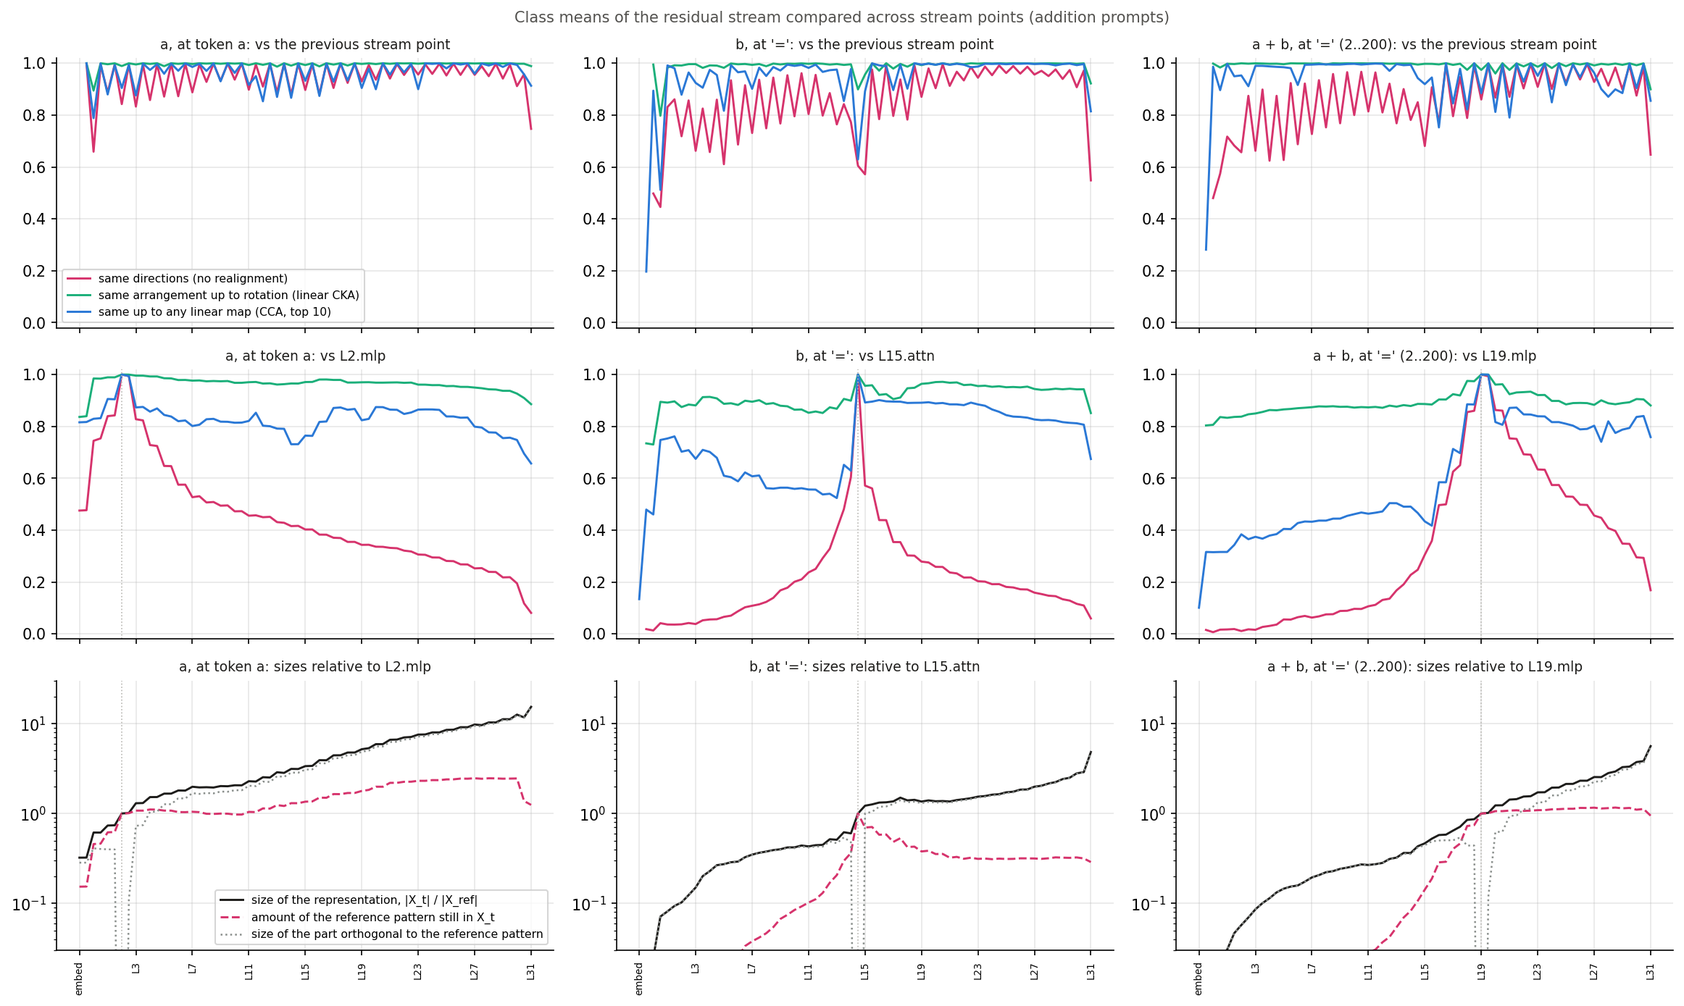
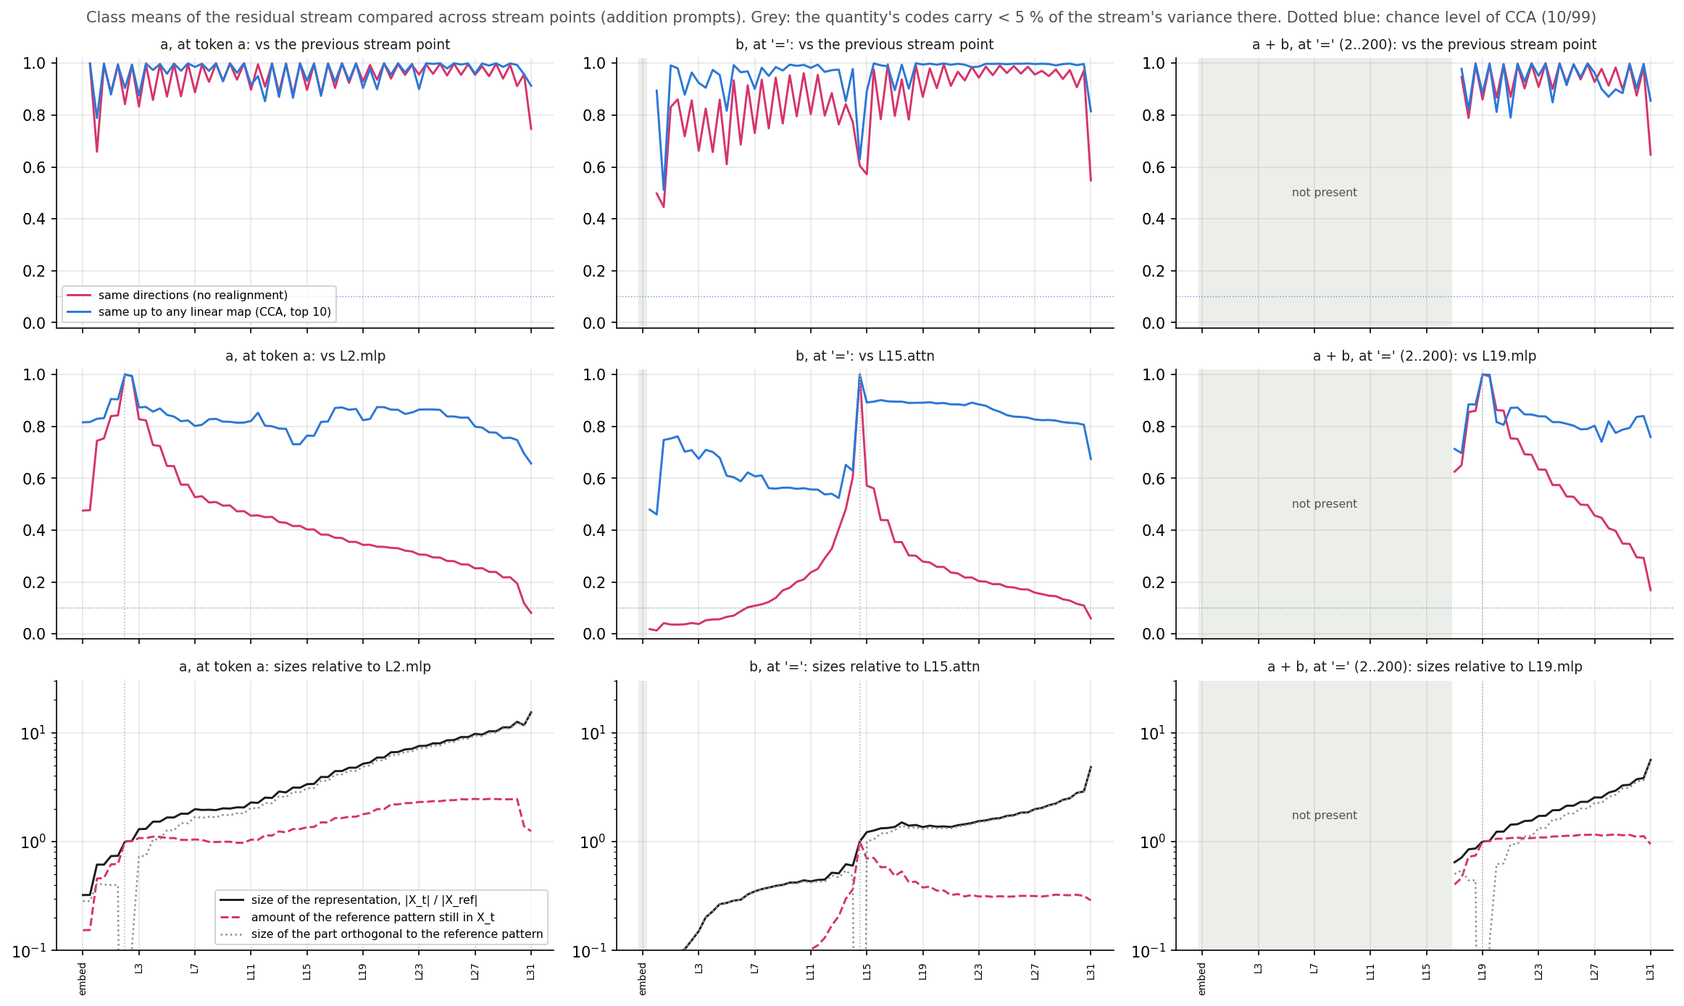
Vector report section 6: CCA instead of CKA, comparisons only where each representation is present

diff --git a/param_decomp/arith_repr/vectors/drift.py b/param_decomp/arith_repr/vectors/drift.py
@@ -10,14 +10,16 @@ comparisons between two points t, t':
 
 * direct similarity  <X_t, X_t'>_F / (|X_t| |X_t'|): the class means are compared in the stream's own
   coordinates, with no realignment. 1 = same directions and same arrangement; 0 = orthogonal.
-* linear CKA         |X_t^T X_t'|_F^2 / (|X_t^T X_t|_F |X_t'^T X_t'|_F): compares the arrangement
-  (the n x n matrix of dot products between class means). Unchanged by any rotation of the stream
-  and by a common rescaling, not by other linear maps.
+* linear CKA         |X_t^T X_t'|_F^2 / (|X_t^T X_t|_F |X_t'^T X_t'|_F): stored but not plotted; it is
+  dominated by the largest directions (e.g. the magnitude lin(a) + lin(b)) and scores high even
+  where the codes differ.
 * CCA similarity     mean squared canonical correlation between the top-K principal coordinates of
-  X_t and X_t' (K = 10): unchanged by any invertible linear map of those coordinates.
+  X_t and X_t' (K = 10): unchanged by any invertible linear map of those coordinates; chance level
+  about K / (n - 1).
 
-When direct similarity falls while CKA stays near 1, the representation has moved to other
-directions of the stream (it was rotated) but its arrangement is the same."""
+When direct similarity falls while CCA stays high, the representation has moved to other directions
+of the stream but its arrangement, up to a linear map, is the same. Figures show only the points
+where the quantity is present (`presence`)."""
 
 import sys
 from typing import Any
@@ -135,12 +137,55 @@ def save(fig: Any, name: str) -> None:
     print("saved", name)
 
 
+PRESENT = 0.05  # a representation is present where its codes carry >= 5 % of the stream's variance
+LINE_IX = {"a": 0, "b": 1, "sum": 2}
+
+
+def presence(k: str) -> np.ndarray:
+    """(65,) bool: the quantity's codes (all harmonics of its line, plus its linear part for a / b)
+    carry at least PRESENT of the stream's variance at that point and position (storage.npz)."""
+    st = np.load(OUT / "storage.npz")
+    pos, q = REPS[k]
+    li = LINE_IX[q]
+    e = st["energy"][:, pos - 1, 0, li].sum(-1)
+    if li < 2:
+        e = e + st["lin"][:, pos - 1, 0, li]
+    return np.nan_to_num(e) >= PRESENT
+
+
+def masked(sim: np.ndarray, p: np.ndarray) -> np.ndarray:
+    out = sim.copy()
+    out[~p, :] = np.nan
+    out[:, ~p] = np.nan
+    return out
+
+
+def shade_absent(ax: Any, p: np.ndarray) -> None:
+    t = 0
+    while t < len(p):
+        if not p[t]:
+            u = t
+            while u + 1 < len(p) and not p[u + 1]:
+                u += 1
+            ax.axvspan(t - 0.5, u + 0.5, color="#eceee9", zorder=0)
+            if u - t >= 6:
+                ax.text((t + u) / 2, 0.5, "not present", ha="center", va="center", fontsize=7.5,
+                        color=INK2, transform=ax.get_xaxis_transform())  # fmt: skip
+            t = u + 1
+        else:
+            t += 1
+
+
 def heatmaps(z: dict[str, np.ndarray], metric: str, title: str, name: str) -> None:
     names = point_names()
     fig, axes = plt.subplots(1, len(ROWS), figsize=(5.2 * len(ROWS), 5))
+    cmap = matplotlib.colormaps["viridis"].copy()
+    cmap.set_bad("#eceee9")
     im: Any = None
     for ax, k in zip(axes, ROWS, strict=True):
-        im = ax.imshow(z[f"{k}_{metric}"], vmin=0, vmax=1, cmap="viridis", origin="lower")
+        im = ax.imshow(
+            masked(z[f"{k}_{metric}"], presence(k)), vmin=0, vmax=1, cmap=cmap, origin="lower"
+        )
         _ticks(ax, names)
         ax.set_title(TITLES[k], fontsize=9.5, color=INK)
         ax.set_xlabel("stream point", fontsize=8)
@@ -150,22 +195,26 @@ def heatmaps(z: dict[str, np.ndarray], metric: str, title: str, name: str) -> No
 
 
 def lines(z: dict[str, np.ndarray]) -> None:
-    """Similarity to the previous point and to a fixed reference point, three measures per row."""
+    """Similarity to the previous point and to a fixed reference point, and the sizes."""
     names = point_names()
     x = np.arange(len(names))
     fig, axes = plt.subplots(3, len(ROWS), figsize=(5.2 * len(ROWS), 9.4), sharex=True)
     styles = {"direct": ("#d6336c", "same directions (no realignment)"),
-              "cka": ("#1baf7a", "same arrangement up to rotation (linear CKA)"),
               "cca": ("#2a78d6", "same up to any linear map (CCA, top 10)")}  # fmt: skip
     for c, k in enumerate(ROWS):
         ref = names.index(REF[k])
+        p = presence(k)
+        pv = np.where(p, 1.0, np.nan)
         for r, (lab, get) in enumerate((
-            ("vs the previous stream point", lambda M: np.r_[np.nan, np.diag(M, 1)]),
-            (f"vs {REF[k]}", lambda M, ref=ref: M[ref]),
+            ("vs the previous stream point",
+             lambda sim, pv=pv: np.r_[np.nan, np.diag(sim, 1)] * pv * np.r_[np.nan, pv[:-1]]),
+            (f"vs {REF[k]}", lambda sim, ref=ref, pv=pv: sim[ref] * pv),
         )):  # fmt: skip
             ax = axes[r, c]
+            shade_absent(ax, p)
             for m, (col, desc) in styles.items():
                 ax.plot(x, get(z[f"{k}_{m}"]), color=col, lw=1.4, label=desc)
+            ax.axhline(10 / 99, color="#2a78d6", lw=0.7, ls=":", alpha=0.7)
             if r == 1:
                 ax.axvline(ref, color=GRAY, lw=0.8, ls=":")
             ax.set_ylim(-0.02, 1.02)
@@ -176,22 +225,25 @@ def lines(z: dict[str, np.ndarray]) -> None:
             _ticks(ax, names, "x")
         # moved away, or diluted? The reference pattern's own amount in X_t, and the size of X_t
         ax = axes[2, c]
+        shade_absent(ax, p)
         size = np.sqrt(z[f"{k}_var"] / z[f"{k}_var"][ref])
         kept = z[f"{k}_direct"][ref] * size  # <X_ref, X_t> / |X_ref|^2
-        ax.plot(x, size, color=INK, lw=1.4, label="size of the representation, |X_t| / |X_ref|")
+        ax.plot(
+            x, size * pv, color=INK, lw=1.4, label="size of the representation, |X_t| / |X_ref|"
+        )
         ax.plot(
             x,
-            kept,
+            kept * pv,
             color="#d6336c",
             lw=1.4,
             ls="--",
             label="amount of the reference pattern still in X_t",
         )
-        ax.plot(x, np.sqrt(np.maximum(size**2 - kept**2, 0)), color="#8a8f8c", lw=1.2, ls=":",
+        ax.plot(x, np.sqrt(np.maximum(size**2 - kept**2, 0)) * pv, color="#8a8f8c", lw=1.2, ls=":",
                 label="size of the part orthogonal to the reference pattern")  # fmt: skip
         ax.axvline(ref, color=GRAY, lw=0.8, ls=":")
         ax.set_yscale("log")
-        ax.set_ylim(0.03, 30)
+        ax.set_ylim(0.1, 30)
         ax.set_title(f"{TITLES[k]}: sizes relative to {REF[k]}", fontsize=9, color=INK)
         ax.grid(alpha=0.3)
         for sp in ("top", "right"):
@@ -199,8 +251,9 @@ def lines(z: dict[str, np.ndarray]) -> None:
         _ticks(ax, names, "x")
     axes[0, 0].legend(fontsize=7.5, loc="lower left")
     axes[2, 0].legend(fontsize=7.5, loc="lower right")
-    fig.suptitle("Class means of the residual stream compared across stream points (addition prompts)",
-                 fontsize=10, color=INK2)  # fmt: skip
+    fig.suptitle("Class means of the residual stream compared across stream points (addition prompts). Grey: the "
+                 "quantity's codes carry < 5 % of the stream's variance there. Dotted blue: chance level of CCA "
+                 "(10/99)", fontsize=10, color=INK2)  # fmt: skip
     fig.tight_layout()
     save(fig, "drift_lines")
 
@@ -208,25 +261,29 @@ def lines(z: dict[str, np.ndarray]) -> None:
 def figures() -> None:
     z = dict(np.load(FILE))
     heatmaps(z, "direct", "Movement: similarity of the class means in the stream's own coordinates "
-             "(no rotation allowed), between every pair of stream points", "drift_direct")  # fmt: skip
-    heatmaps(z, "cka", "Arrangement: linear CKA of the class means between every pair of stream points "
-             "(unchanged by rotations of the stream)", "drift_cka")  # fmt: skip
+             "(no realignment allowed), between every pair of stream points where the quantity is present",
+             "drift_direct")  # fmt: skip
+    heatmaps(z, "cca", "Arrangement: CCA similarity of the class means (unchanged by any invertible linear map "
+             "of the top 10 principal coordinates), where the quantity is present", "drift_cca")  # fmt: skip
     lines(z)
     names = point_names()
     for k in REPS:
-        d, c, q = z[f"{k}_direct"], z[f"{k}_cka"], z[f"{k}_cca"]
+        d, q = z[f"{k}_direct"], z[f"{k}_cca"]
         ref = names.index(REF[k])
-        print(k, "ref", REF[k])
+        p = presence(k)
+        first = names[int(np.argmax(p))]
+        print(k, "ref", REF[k], "present from", first, "points present", int(p.sum()))
         for t in ("L5.mlp", "L10.mlp", "L15.mlp", "L19.mlp", "L23.mlp", "L27.mlp", "L31.mlp"):
             i = names.index(t)
             size = np.sqrt(z[f"{k}_var"][i] / z[f"{k}_var"][ref])
-            print(f"   {t:9s} step direct {d[i - 1, i]:.3f} cka {c[i - 1, i]:.3f} | vs ref direct {d[ref, i]:.3f} "
-                  f"cka {c[ref, i]:.3f} cca {q[ref, i]:.3f} | size {size:.2f} kept {d[ref, i] * size:.2f}")  # fmt: skip
-        mlp = [names.index(f"L{li}.mlp") for li in range(3, 31)]
-        att = [names.index(f"L{li}.attn") for li in range(3, 31)]
-        print(
-            f"   median step direct L3-L30: attn {np.median([d[i - 1, i] for i in att]):.3f}, mlp {np.median([d[i - 1, i] for i in mlp]):.3f}"
-        )
+            print(f"   {t:9s} present {p[i]} step direct {d[i - 1, i]:.3f} cca {q[i - 1, i]:.3f} | vs ref direct "
+                  f"{d[ref, i]:.3f} cca {q[ref, i]:.3f} | size {size:.2f} kept {d[ref, i] * size:.2f}")  # fmt: skip
+        mlp = [names.index(f"L{li}.mlp") for li in range(3, 31) if p[names.index(f"L{li}.mlp")]]
+        att = [names.index(f"L{li}.attn") for li in range(3, 31) if p[names.index(f"L{li}.attn")]]
+        for nm, ids in (("attn", att), ("mlp", mlp)):
+            if ids:
+                print(f"   median step L3-L30 {nm}: direct {np.median([d[i - 1, i] for i in ids]):.3f} "
+                      f"cca {np.median([q[i - 1, i] for i in ids]):.3f}")  # fmt: skip
 
 
 if __name__ == "__main__":

diff --git a/notes/arith_representations/report_auto_interp_vectors.md b/notes/arith_representations/report_auto_interp_vectors.md
@@ -86,11 +86,11 @@ Code: `param_decomp/arith_repr/vectors/`. Data and full-size figures:
      on subtraction while `a` is unchanged;
    - the same L16-L18 "adder" units then compute `a + (−b)`.
 
-6. **Between the computing layers.** The other layers keep the representations' arrangement
-   (linear CKA 0.88-1.0 across L2-L30) but write re-scaled, rotated copies into new directions while
-   leaving the old copy in place. For `a` at token a, only a quarter of the representation still
-   points where it did at L2 by L27, though the original pattern is still there at full size
-   (section 6).
+6. **Between the computing layers.** The other layers keep the representations' arrangement up to
+   a linear map (CCA about 0.8 across L2-L30) but write linearly transformed copies into new
+   directions while leaving the old copy in place. For `a` at token a, only a quarter of the
+   representation still points where it did at L2 by L27, though the original pattern is still
+   there at full size (section 6).
 
 ## Method
 
@@ -1308,7 +1308,7 @@ Mode shares of the odd write: k2 B 0.94; k10 B 0.75 / A 0.25; k20 A 0.96.
 Sections 1-5 find only a few layers that change what is represented: the L0 MLP at the operand
 tokens, the copies at L15-L16, and the L16-L19 MLPs that create the result. The other layers still
 have components that read and write the codes. This section asks what those layers do to the
-representations as a whole. Do they leave them in place, rotate them into other directions, or
+representations as a whole. Do they leave them in place, move them into other directions, or
 change their arrangement?
 
 Code: `param_decomp/arith_repr/vectors/drift.py`. Data: `<run>/analysis/arith_repr/vectors/drift.npz`.
@@ -1321,21 +1321,32 @@ Code: `param_decomp/arith_repr/vectors/drift.py`. Data: `<run>/analysis/arith_re
   average over all prompts. At stream point `t` this gives a matrix `X_t` with one row per value,
   each row a 4,096-vector (a **class mean**). The rows of `X_t` are the representation's points; how
   they sit relative to each other is its **arrangement**.
+- **Where a representation is present.** A quantity counts as present at a stream point when its
+  codes carry at least 5 % of the stream's variance there. The codes are all harmonics of its line
+  in Tool 2's frames, plus its linear part for `a` and `b`. Comparisons are shown only between points
+  where the quantity is present (the grey regions in the figures are left out).
+  - `a` at token a is present at every point.
+  - `b` at `=` is present from L0 attention on: the previous-token copy (section 1) already puts
+    21-60 % of the `=` stream's variance on b's codes.
+  - `a + b` at `=` is present from L17.mlp on (7 % of the variance, growing to 60 % by L25). Before
+    that, the class means of `a + b` are not empty, but what they hold is the magnitude
+    `lin(a) + lin(b)` and edge effects of the operands' own codes, not a representation of the sum.
 - **Direct similarity** between two stream points `t` and `t'`:
   `⟨X_t, X_t'⟩ / (|X_t| |X_t'|)`, where `⟨X, Y⟩` is the sum of the products of matching entries. It
   compares the class means in the stream's own coordinates, with no realignment. It is 1 when the
   points sit in the same directions with the same arrangement, and 0 when the two sets of directions
   are orthogonal. This measures **movement**.
-- **Linear CKA** (centred kernel alignment). Form for each point the 100 × 100 matrix of dot
-  products between its class means, `K_t = X_t X_tᵀ`. CKA is the cosine between `K_t` and `K_t'`,
-  treating each matrix as one long vector. A rotation of the stream, or a common rescaling, leaves
-  every dot product unchanged up to that scale, so CKA is 1 for a rotated copy. It is **not**
-  unchanged by other linear maps, such as stretching one direction.
-- **CCA similarity.** Take the 10 leading principal coordinates of `X_t` and of `X_t'` (each a
-  100 × 10 matrix). The canonical correlations are the correlations between the best-matched
-  linear combinations of the two sets. Their mean square is 1 when one set is any invertible linear
-  map of the other. Unlike CKA, it weights the 10 coordinates equally, so a small code counts as
-  much as a large one.
+- **CCA similarity** (canonical correlation analysis). Take the 10 leading principal coordinates of
+  `X_t` and of `X_t'`, each a 100 × 10 matrix (one row per value). CCA finds the linear combination
+  of the first set and the linear combination of the second set that are most correlated across the
+  values; that correlation is the first canonical correlation. It then finds the next most
+  correlated pair, uncorrelated with the first, and so on, ten times. The score is the mean of the
+  ten squared correlations.
+  - It is 1 when one set of coordinates is any invertible linear map of the other (rotated,
+    stretched, sheared), so it measures whether the **arrangement** is the same up to a linear map.
+  - Each of the ten directions counts equally, so a small code counts as much as a large one.
+  - With 100 values and 10 coordinates, two unrelated representations still score about
+    10/99 ≈ 0.1 by chance (dotted line in the figure).
 
 **Results.**
 
@@ -1348,24 +1359,36 @@ result is made). Bottom row: sizes, explained below.
 
 - **Step by step, the representations barely change.** Attention steps leave the class means almost
   where they were: median direct similarity from L3 to L30 is 0.99-1.00 at the operand tokens and
-  0.96-0.97 at `=`. MLP steps move them more: 0.90-0.93 at the operand tokens, 0.80-0.81 at `=`.
-  That is the saw-tooth in the top row. CKA stays at or above 0.97 at almost every step. The
-  exceptions are the steps that compute (L15 at `=`) and the last layer, L31 (0.90-0.99).
+  0.96-0.99 at `=`. MLP steps move them more: 0.90-0.93 at the operand tokens, 0.80-0.90 at `=`. That
+  is the saw-tooth in the top row. CCA between consecutive points is 0.99-1.00 for attention steps
+  and 0.89-0.99 for MLP steps (medians). It dips only where something is computed (L15 at `=`, the
+  first result layers) and at L31.
 - **Over a segment, the representation drifts to other directions while keeping its arrangement.**
-  For `a` at token a, the direct similarity with L2.mlp falls steadily, to 0.47 by L10, 0.34 by L19
-  and 0.25 by L27. Over the same layers CKA stays at 0.95-0.97 and CCA at 0.77-0.87. For `a + b` at
-  `=` after L19: direct similarity 0.63 by L23 and 0.46 by L27, against CKA 0.88-0.92. Seen in the
-  stream's own coordinates, the representation keeps moving away from where it started. Its
-  arrangement stays the same: a rotated (or close to rotated) copy.
+  - `a` at token a: direct similarity with L2.mlp falls to 0.47 by L10, 0.34 by L19 and 0.25 by L27.
+    CCA stays at 0.80-0.82 over the same layers.
+  - `a + b` at `=`: direct similarity with L19.mlp falls to 0.63 by L23 and 0.46 by L27; CCA stays at
+    0.80-0.84.
+  - `b` at `=`: direct similarity with L15.attn falls to 0.28 by L19 and 0.16 by L27; CCA stays at
+    0.83-0.89.
+
+  In the stream's own coordinates each representation keeps moving away from where it started.
+  Its arrangement, up to a linear map, stays close to the original.
+- **The early and late `b` at `=` are different representations.** Up to L12, b's representation
+  at `=` (the previous-token copy) has a direct similarity of 0.02-0.3 with the L15 copy and a CCA of
+  only 0.45-0.76. So the L15H13 copy is not the early one moved into place: it writes a new copy, in
+  other directions and with a different arrangement.
 
 ![drift direct](figures_auto_interp_vectors/drift_direct.png)
 
-![drift cka](figures_auto_interp_vectors/drift_cka.png)
+![drift cca](figures_auto_interp_vectors/drift_cca.png)
 
-The same two measures between every pair of stream points. Direct similarity (first figure) is a
-band along the diagonal: each point resembles its neighbours and nothing far away. CKA (second
-figure) is close to 1 over whole blocks of layers. The blocks change exactly where something is
-computed: at L15-L16 for `b` at `=` (copy and mirror) and at L16-L19 for `a + b`.
+The same two measures between every pair of stream points where the quantity is present. Direct
+similarity (first figure) is a band along the diagonal: each point resembles its neighbours and
+nothing far away. CCA (second figure) stays high over whole blocks of layers.
+- For `a` at token a the blocks are roughly L3-L11, L12-L22 and L23-L30: around 0.9 within a block
+  and 0.75-0.85 between blocks.
+- For `b` at `=` the break is at L15.
+- For `a + b` the arrangement settles from about L23.
 
 **Moved away, or added to? (bottom row).** Direct similarity can fall for two different reasons.
 The old pattern can be removed and rewritten elsewhere (a real move), or the old pattern can stay
@@ -1377,39 +1400,36 @@ two:
   the reference pattern is still present at full size);
 - dotted: the size of the rest of `X_t`, which is orthogonal to the reference pattern.
 
-| representation | reference | at | size | reference pattern still present | direct | CKA |
+| representation | reference | at | size | reference pattern still present | direct | CCA |
 |---|---|---|---|---|---|---|
-| `a` at token a | L2.mlp | L10 / L19 / L27 | 2.1 / 5.2 / 9.8 | 0.97 / 1.78 / 2.46 | 0.47 / 0.34 / 0.25 | 0.97 / 0.97 / 0.95 |
-| `a + b` at `=` | L19.mlp | L23 / L27 / L31 | 1.7 / 2.5 / 5.6 | 1.09 / 1.16 / 0.95 | 0.63 / 0.46 / 0.17 | 0.92 / 0.88 / 0.88 |
-| `b` at `=` | L15.attn | L19 / L23 / L27 | 1.4 / 1.5 / 2.0 | 0.38 / 0.31 / 0.32 | 0.28 / 0.20 / 0.16 | 0.96 / 0.96 / 0.94 |
+| `a` at token a | L2.mlp | L10 / L19 / L27 | 2.1 / 5.2 / 9.8 | 0.97 / 1.78 / 2.46 | 0.47 / 0.34 / 0.25 | 0.81 / 0.82 / 0.80 |
+| `a + b` at `=` | L19.mlp | L23 / L27 / L31 | 1.7 / 2.5 / 5.6 | 1.09 / 1.16 / 0.95 | 0.63 / 0.46 / 0.17 | 0.84 / 0.80 / 0.76 |
+| `b` at `=` | L15.attn | L19 / L23 / L27 | 1.4 / 1.5 / 2.0 | 0.38 / 0.31 / 0.32 | 0.28 / 0.20 / 0.16 | 0.89 / 0.89 / 0.83 |
 
 - **`a` at token a and `a + b` at `=`: added to, not moved.** The reference pattern stays at full
   size or more (0.95-2.5), while the representation grows 2-15 times through new parts orthogonal
-  to it. Since CKA stays high, those new parts have the same arrangement as the old one. The layers
-  between the computing steps keep writing re-scaled, rotated copies of the same representation
-  into new directions, and leave the old copy in place. This matches section 1: almost every writer
-  is a "spoke" that writes the code it reads, in the stream's existing phase, with little erasing.
+  to it. Since CCA stays around 0.8, those new parts carry nearly the same arrangement as the old
+  one. The layers between the computing steps keep writing linearly transformed copies of the same
+  representation into new directions, and leave the old copy in place. This matches section 1:
+  almost every writer is a "spoke" that writes the code it reads, in the stream's existing phase,
+  with little erasing.
 - **`b` at `=` after L15: partly moved.** Two thirds of the reference pattern is gone by L19
   (0.38 left). The loss starts at the L15 MLP, which removes part of b's copy while it builds the
-  mirrored code (section 5), and continues to L19. The rest of the drift is again new copies with the same arrangement (CKA
-  0.94-0.96).
+  mirrored code (section 5), and continues to L19. The rest of the drift is again new copies with
+  nearly the same arrangement (CCA 0.83-0.89).
 - **The readers see a shrinking share of the old copy.** These are sizes in the raw stream. The
   stream's total size also grows with depth, and every reader sees the stream after RMSNorm. So
   even an old copy that keeps its size becomes a smaller part of what later layers read, and the
   newer copies take over.
-- **L31 is different.** In the last layer all three measures drop (direct 0.06-0.17 against the
-  references, CKA 0.85-0.89), and for `a` at token a the reference pattern shrinks from 2.5 to 1.3.
-  The last MLP rewrites the representations as well as copying them, which fits section 4's
-  finding that L31 is poorly captured by the codes.
+- **L31 is different.** In the last layer both measures drop (direct 0.06-0.17 against the
+  references, CCA 0.60-0.76), and for `a` at token a the reference pattern shrinks from 2.5 to 1.3.
+  The last MLP rewrites the representations as well as copying them, which fits section 4's finding
+  that L31 is poorly captured by the codes.
 
-**What CKA cannot see.** Linear CKA is dominated by the largest directions of variation. Before the
-result exists (`a + b` at `=` before L16), CKA with L19.mlp is already 0.80-0.89. The reason is
-that the class means of `a + b` are ordered by the magnitude part `lin(a) + lin(b)`, which is large
-and already present. CCA, which weights the ten leading coordinates equally, stays at 0.31-0.50
-until the codes are made at L16-L19, then jumps to 0.8-0.9. Read the CKA curves as "the large-scale
-arrangement is the same" and the CCA curves as the stricter test. The comparison also uses class
-means only: structure inside a class (for example how `a + b` prompts differ by their `a`) is
-averaged out.
+**Limits.** The comparison uses class means only: structure inside a class (for example how
+`a + b` prompts differ by their `a`) is averaged out. CCA looks at the ten leading principal
+coordinates only; smaller codes beyond those ten are not compared. The 5 % presence threshold is a
+choice.
 
 ## What the vectors do not settle (for the validation pass)
 
